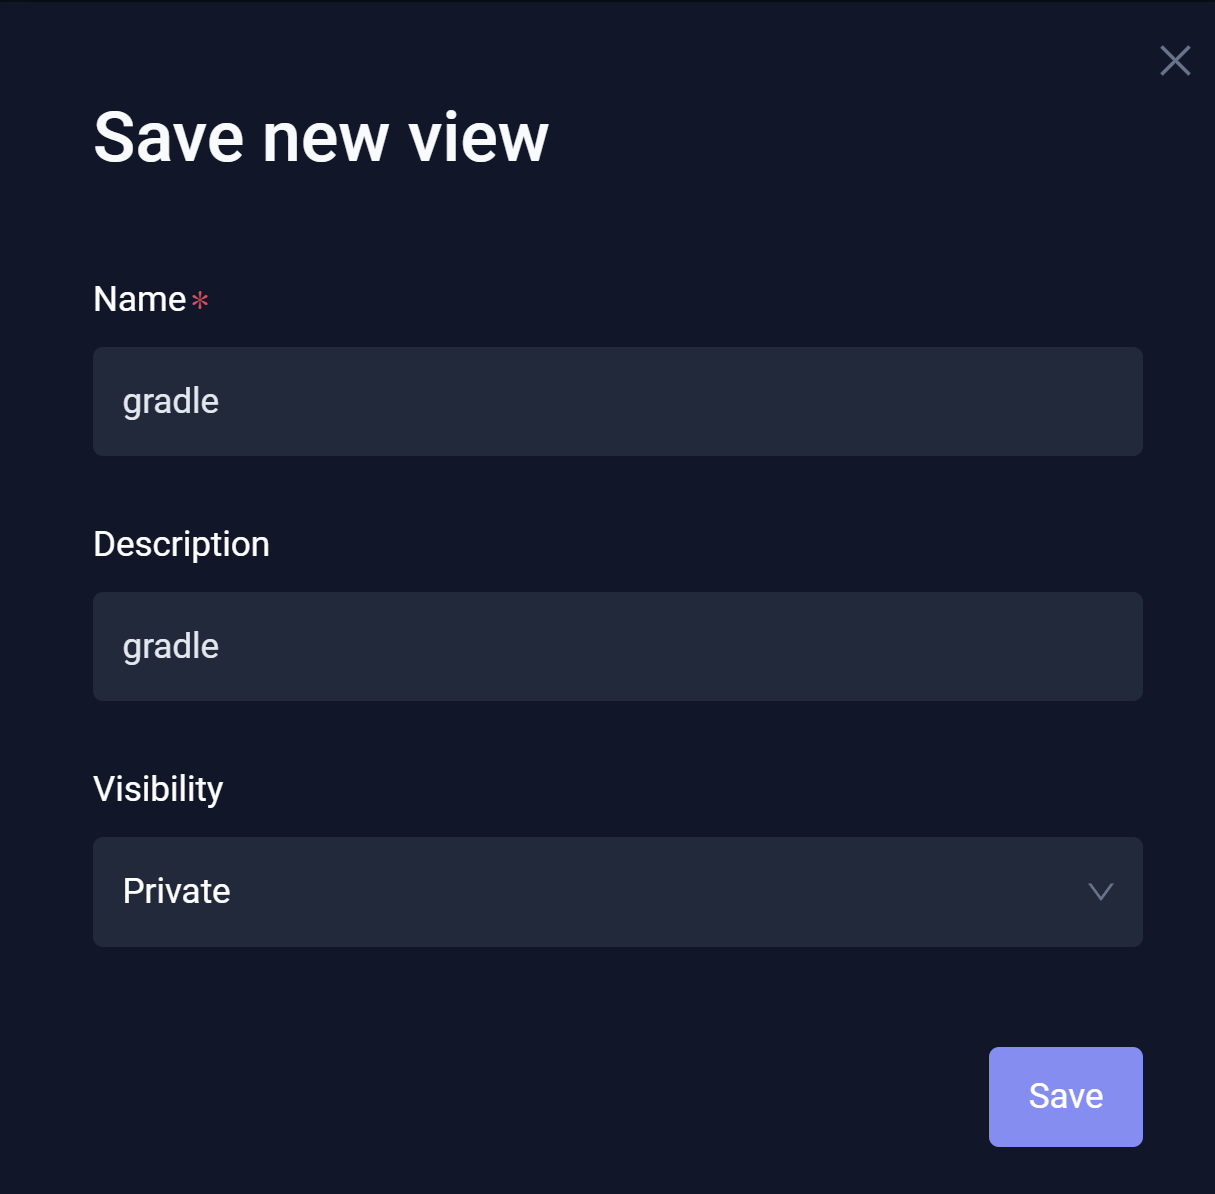
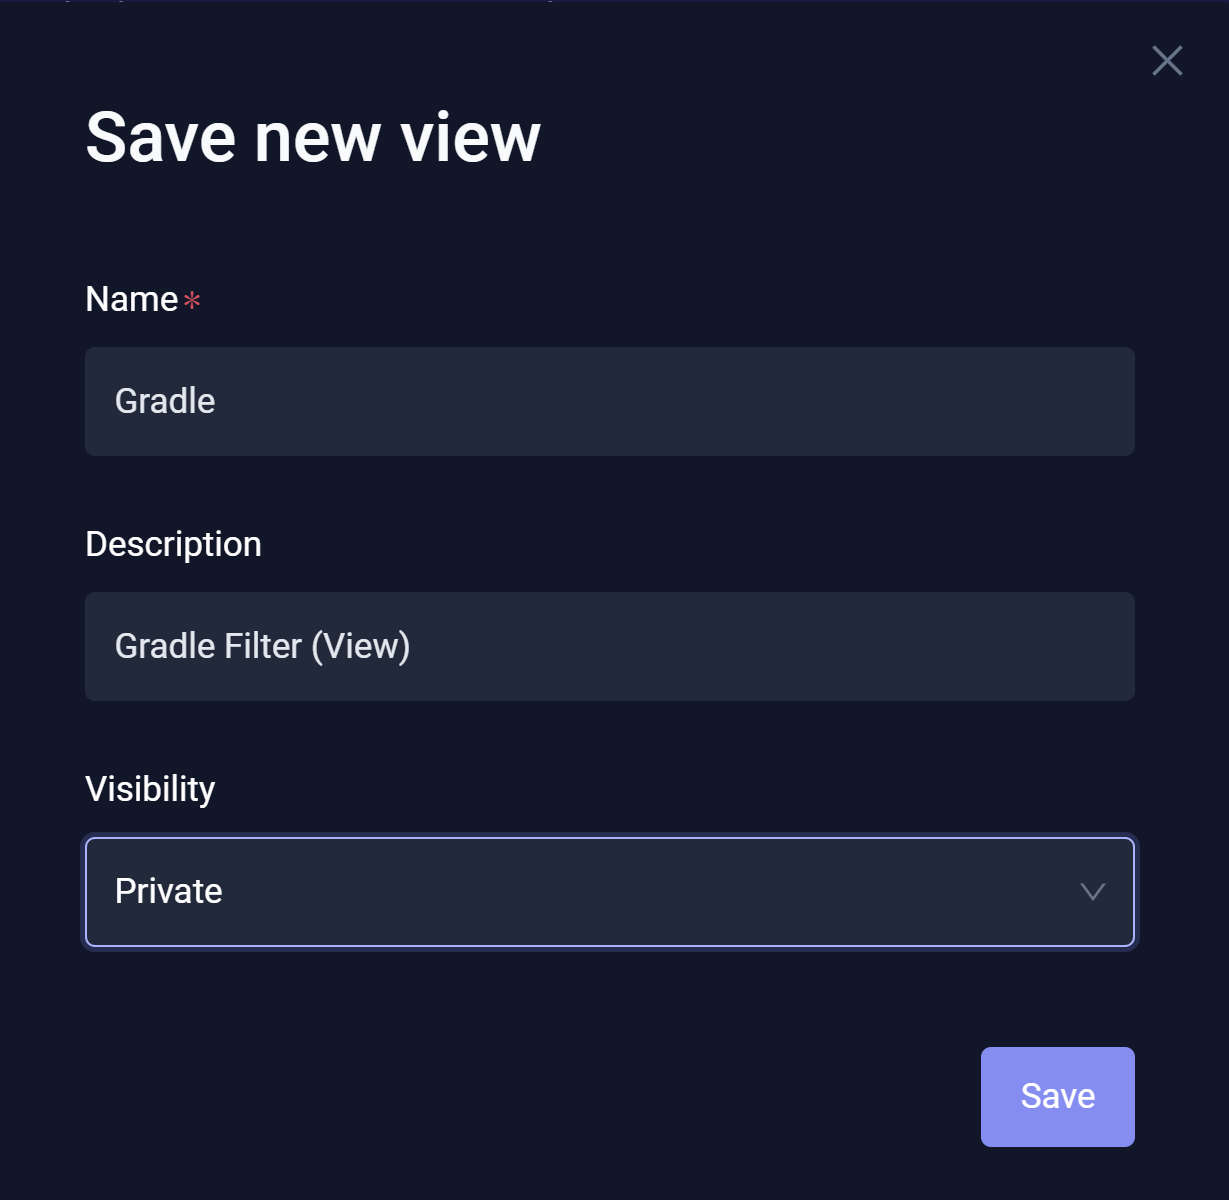
updates: workflows overview - feedback 1

diff --git a/docs/articles/testkube-dashboard-workflows-overview.md b/docs/articles/testkube-dashboard-workflows-overview.md
@@ -1,6 +1,6 @@
 # Workflows Overview
 
-The Workflows Overview displays all workflows in the **Environment** you selected, which includes the most
+The Workflows Overview displays all workflows (automated tests) in the **Environment** you selected, which includes the most
 recent and the execution status of each. 
 
 ![Workflows Overview](images/workflows-overview.png)
@@ -18,10 +18,18 @@ You can **Search** and **Filter** your workflows to narrow the output. When you 
 
 ![Workflow Search](images/workflows-overview-search.png)
 
-When you click **Save as view**, **Save new view** opens – enabling you to retain the view.
-
-![Save new view](images/workflows-overview-save-new-view.png)
-
-You can also filter workflows by separately selecting **Labels**, **Status**, and **Resource Group** and choosing one or more parameters.
+You can filter workflows by separately selecting **Labels**, **Status**, and **Resource Group** and choosing one or more parameters specific to each.
 
 ![Workflow Filters](images/workflows-overview-filter.png)
+
+## Custom Views
+
+Custom views are saved filters that allow you to:
+
+* Access and reuse these filters, which become visible within **Workflows Overview**.
+* Establish **Private** views (Default) such that only you have view access.
+* Set views to **Shared across environment**, which allows you to make these custom views available to team members.
+
+When you click **Save as view**, **Save new view** opens – allowing you to establish, retain, and share these custom views.
+
+![Save new view](images/workflows-overview-save-new-view.png)
